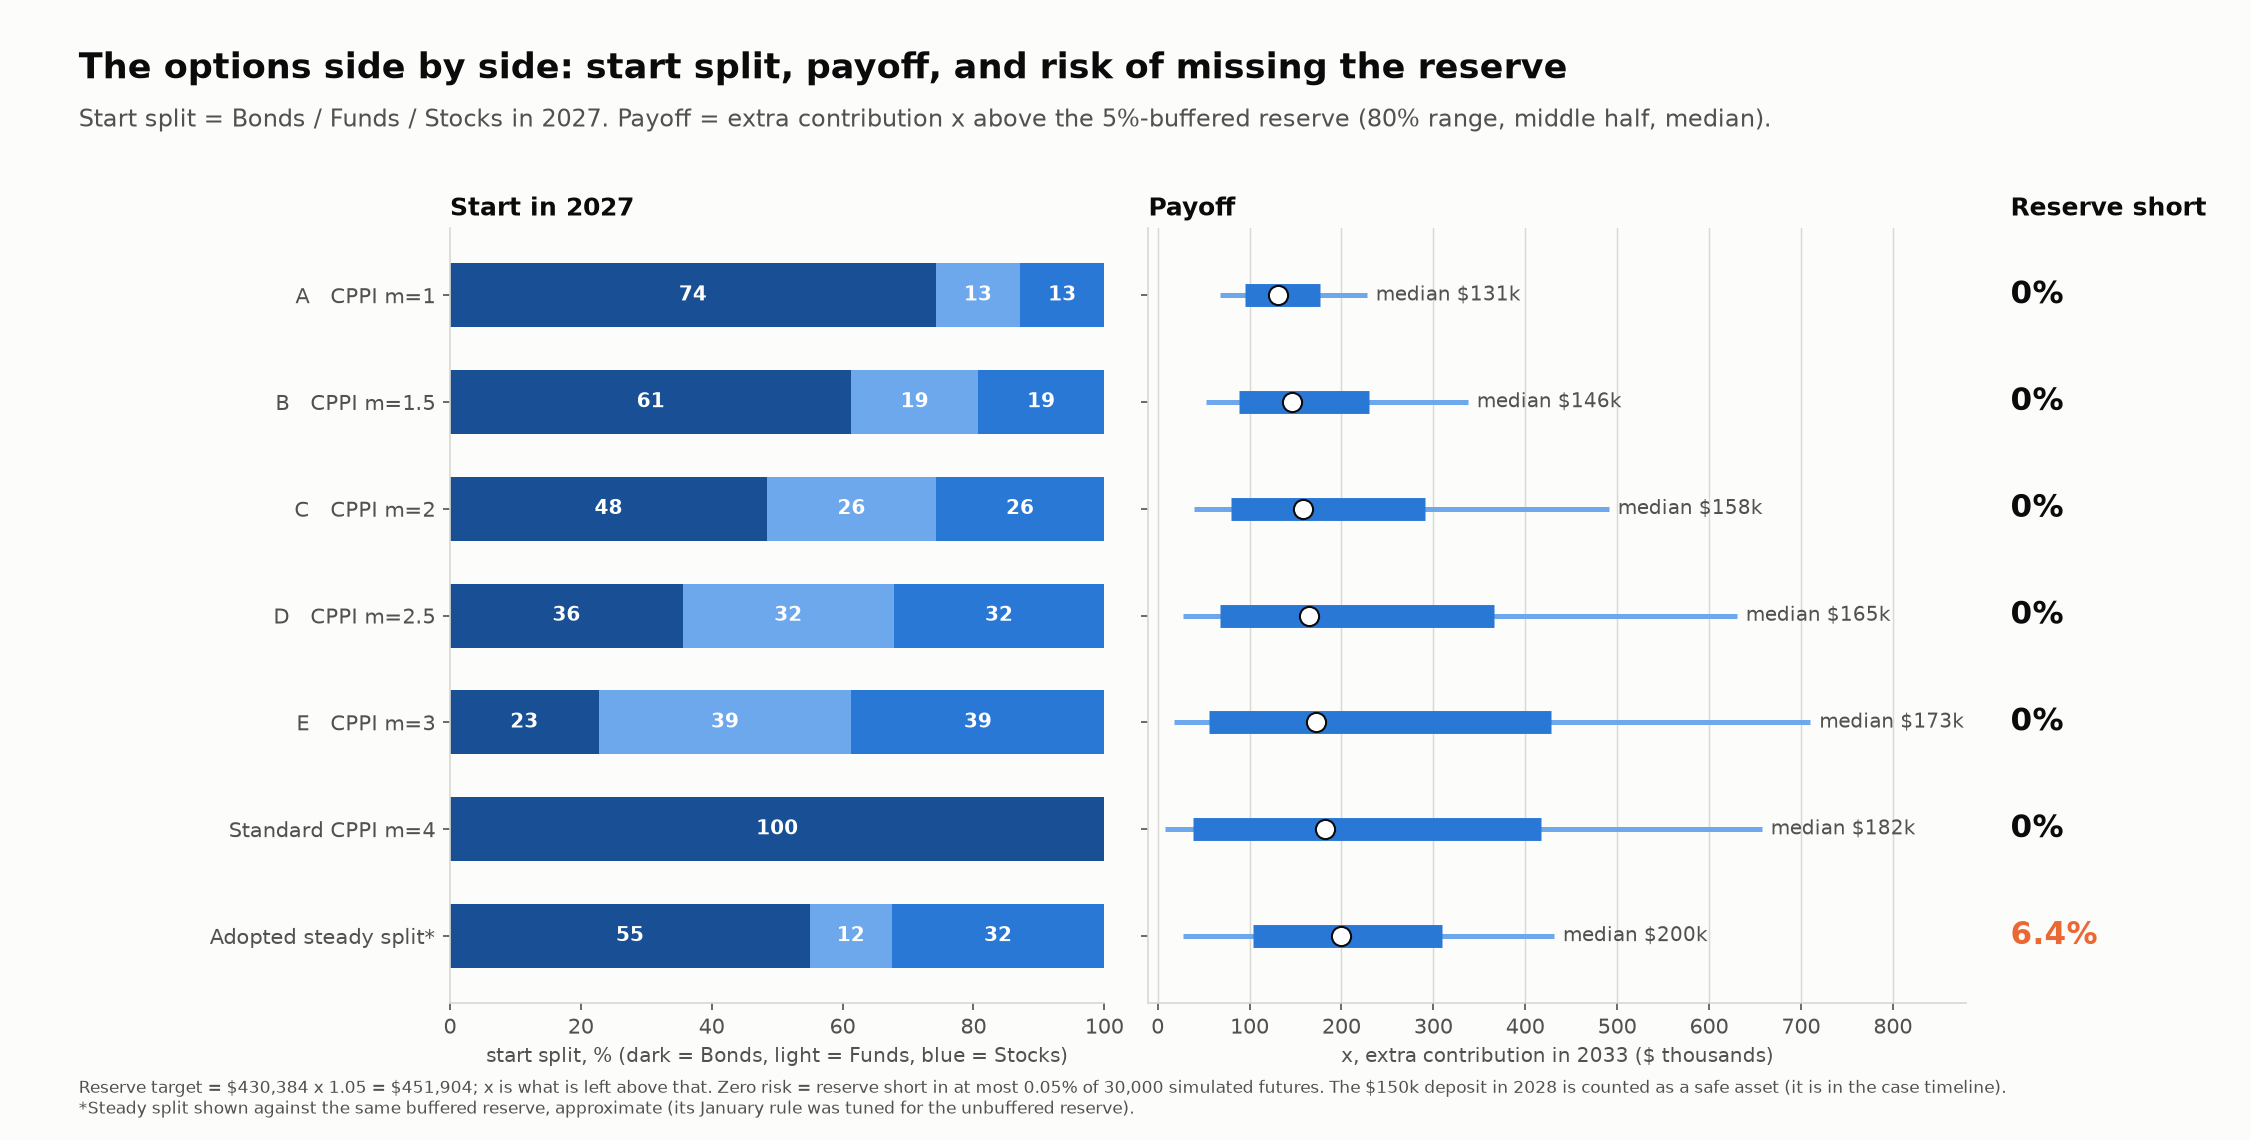
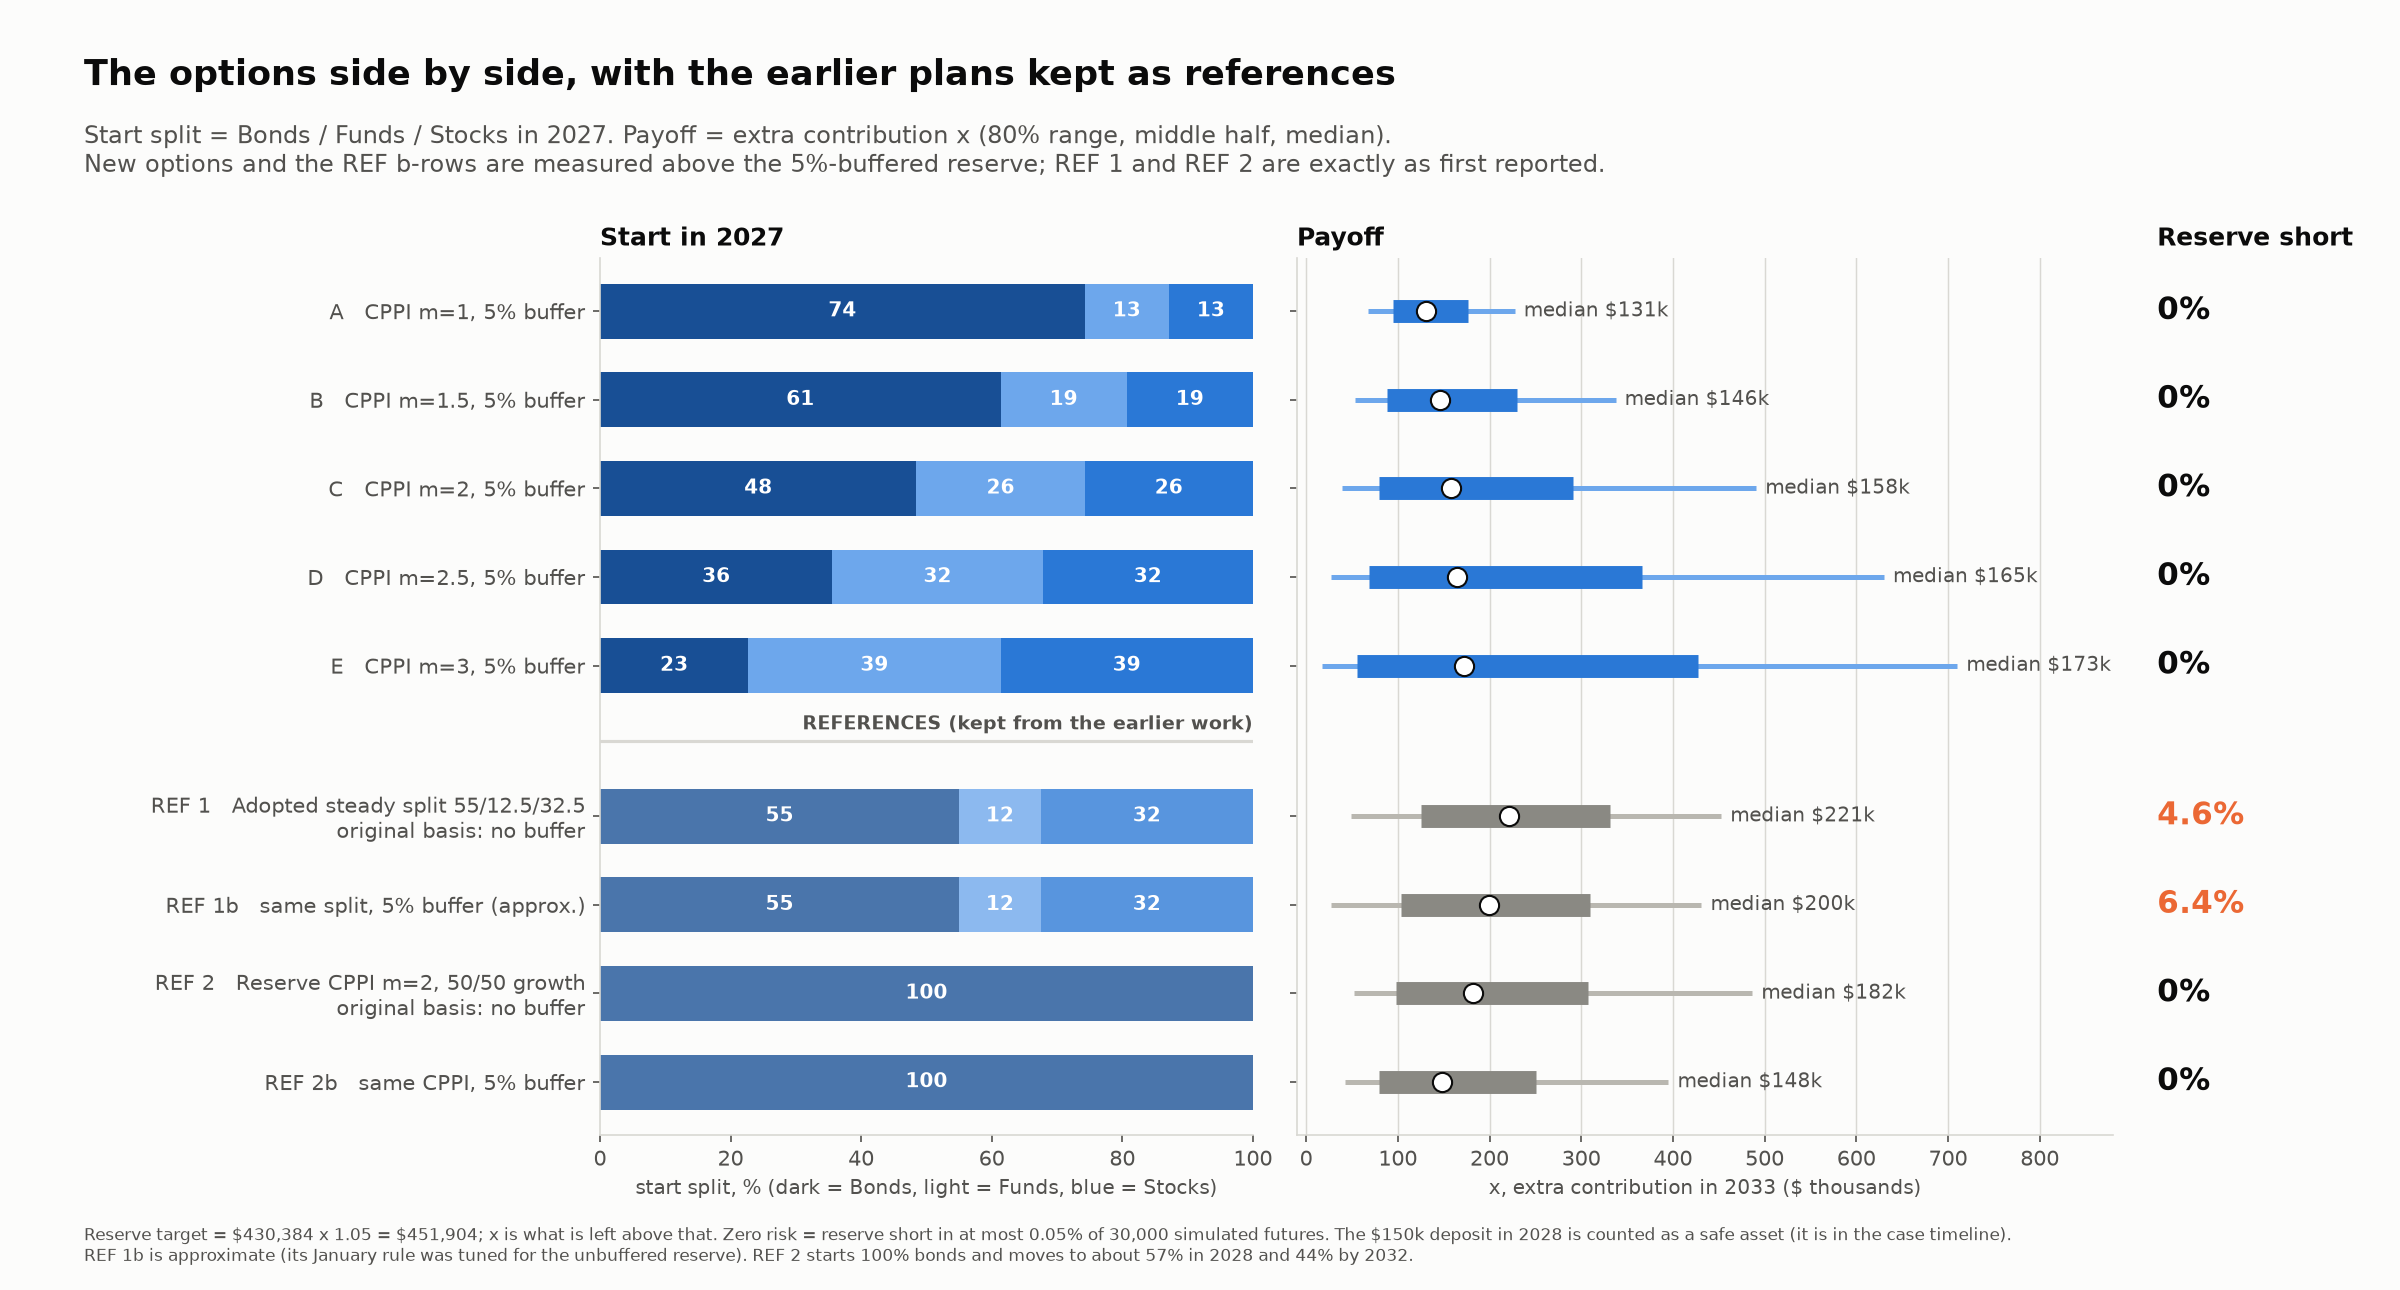
Keep earlier work as references: restore older charts to output/reference and add reference rows and panels to the CPPI option charts

diff --git a/visuals.py b/visuals.py
@@ -430,10 +430,18 @@ def cppi_data(d):
         r = c.loc[i]
         v, _, share = o.run_reserve_first(o.grow_returns(d["X"], r.stock_share_of_growth), float(r.multiplier), reserve=RES_BUF, count_future=True)
         paths[letter] = {"v": v, "bonds": 1 - share[:, ::12]}
-    ref = o.x_stats(d["v"]) if False else None
-    xs = np.maximum(d["v"] - RES_BUF, 0)
-    d["steady_ref"] = {"x_median": np.median(xs), "x_range_lo": np.percentile(xs, o.RLO), "x_range_hi": np.percentile(xs, o.RHI), "x_p25": np.percentile(xs, 25),
-                       "x_p75": np.percentile(xs, 75), "p_short": float((d["v"] < RES_BUF).mean())}
+    def stats(v, res):
+        x = np.maximum(v - res, 0)
+        return {"x_median": np.median(x), "x_range_lo": np.percentile(x, o.RLO), "x_range_hi": np.percentile(x, o.RHI), "x_p25": np.percentile(x, 25),
+                "x_p75": np.percentile(x, 75), "p_short": float((v < res).mean())}
+    d["steady_ref"] = stats(d["v"], RES_BUF)               # adopted steady split against the buffered reserve (approx.)
+    d["steady_orig"] = stats(d["v"], o.RESERVE)            # adopted steady split, original basis (no buffer)
+    # reserve-first CPPI from the earlier work: m=2, 50/50 growth, deposit not counted (starts 100% bonds)
+    g50 = o.grow_returns(d["X"], 0.5)
+    v0, _, sh0 = o.run_reserve_first(g50, 2.0)
+    d["cppi_orig"] = {**stats(v0, o.RESERVE), "bonds": 1 - sh0[:, ::12]}
+    vb, _, _ = o.run_reserve_first(g50, 2.0, reserve=RES_BUF)
+    d["cppi_orig_buf"] = stats(vb, RES_BUF)
     return c, menu, paths
 
 
@@ -452,7 +460,14 @@ def chart_cppi_frontier(d, c, menu):
     ax.scatter(std.start_bonds * 100, std.x_median / 1e3, s=60, marker="s", c=ORANGE, zorder=4, label="standard CPPI (2028 deposit not counted): all start at 100% bonds")
     ref = d["steady_ref"]
     ax.axhline(ref["x_median"] / 1e3, color=INK2, lw=1.2, ls="--")
-    ax.text(80, ref["x_median"] / 1e3 + 3, f"adopted steady split, same buffer (approx.): median {K(ref['x_median'])},\nbut {ref['p_short']:.1%} chance the reserve is short", fontsize=9.3, color=INK2, va="bottom", linespacing=1.4)
+    ax.text(60, ref["x_median"] / 1e3 - 2.5, f"dashed line: adopted steady split against the buffered reserve\n(approx.): median {K(ref['x_median'])}, reserve short {ref['p_short']:.1%}", fontsize=9, color=INK2, va="top", linespacing=1.4)
+    so, co = d["steady_orig"], d["cppi_orig"]
+    ax.scatter(SPLIT[0] * 100, so["x_median"] / 1e3, s=190, marker="D", c=INK, zorder=6)
+    ax.annotate(f"REF  adopted steady split 55/12.5/32.5, original basis (no buffer):\nmedian {K(so['x_median'])}, reserve short {so['p_short']:.1%}", (SPLIT[0] * 100, so["x_median"] / 1e3),
+                (50, so["x_median"] / 1e3 + 9), fontsize=9.2, color=INK, va="center", arrowprops=dict(arrowstyle="-", color=INK2))
+    ax.scatter(100, co["x_median"] / 1e3, s=190, marker="s", c="white", edgecolors=INK, linewidths=1.8, zorder=6)
+    ax.annotate(f"REF  reserve CPPI m=2 (earlier work), original basis:\nmedian {K(co['x_median'])}, starts at 100% bonds", (100, co["x_median"] / 1e3),
+                (93, co["x_median"] / 1e3 + 14), fontsize=9.2, color=INK, va="center", arrowprops=dict(arrowstyle="-", color=INK2))
     for letter, i in menu.items():
         r = c.loc[i]
         ax.scatter(r.start_bonds * 100, r.x_median / 1e3, s=330, marker="o", c="white", edgecolors=INK, linewidths=1.6, zorder=6)
@@ -460,7 +475,7 @@ def chart_cppi_frontier(d, c, menu):
     ax.set_xlim(104, -4)
     ax.set_xlabel("Bonds % in 2027 (the starting split)", fontsize=11, color=INK2)
     ax.set_ylabel("median extra contribution x ($ thousands)", fontsize=11, color=INK2)
-    ax.legend(loc="upper left", frameon=False, fontsize=9.5, labelcolor=INK2)
+    ax.legend(loc="lower right", frameon=False, fontsize=9.5, labelcolor=INK2)
     setup(ax, "both")
     cb = fig.colorbar(sc, ax=ax, fraction=0.035, pad=0.02)
     cb.set_label("CPPI multiplier", fontsize=10, color=INK2)
@@ -529,53 +544,50 @@ def chart_cppi_heatmaps(d, c, menu):
 
 
 def chart_cppi_menu(d, c, menu, paths):
-    names, starts, xs, shorts, subs = [], [], [], [], []
+    rows = []                                              # (label, start split, x quantiles, P(short), group)
     for letter, i in menu.items():
         r = c.loc[i]
-        names.append(f"{letter}   CPPI m={r.multiplier:g}")
-        starts.append((r.start_bonds, r.start_funds, r.start_stocks))
-        xs.append((r.x_range_lo, r.x_p25, r.x_median, r.x_p75, r.x_range_hi))
-        shorts.append(r.p_shortfall)
-        subs.append(f"moves ~{r.chg_after * 100:.0f} pts/yr after 2028")
-    std = c[(c.buffer == BUF) & ~c.count_deposit & c.zero_risk & (c.stock_share_of_growth <= config.MAX_STOCK_SHARE_OF_GROWTH + 1e-9)]
-    if len(std):
-        r = c.loc[std.x_median.idxmax()]
-        names.append(f"Standard CPPI m={r.multiplier:g}")
-        starts.append((1.0, 0.0, 0.0))
-        xs.append((r.x_range_lo, r.x_p25, r.x_median, r.x_p75, r.x_range_hi))
-        shorts.append(r.p_shortfall)
-        subs.append("starts 100% bonds")
-    ref = d["steady_ref"]
-    names.append("Adopted steady split*")
-    starts.append(tuple(SPLIT))
-    xs.append((ref["x_range_lo"], ref["x_p25"], ref["x_median"], ref["x_p75"], ref["x_range_hi"]))
-    shorts.append(ref["p_short"])
-    subs.append("nudges 5 pts at most; has risk")
-    n = len(names)
-    fig = page("The options side by side: start split, payoff, and risk of missing the reserve",
-               f"Start split = Bonds / Funds / Stocks in 2027. Payoff = extra contribution x above the {BUF:.0%}-buffered reserve ({o.RC:.0%} range, middle half, median).",
-               note=NOTE_CPPI + "\n*Steady split shown against the same buffered reserve, approximate (its January rule was tuned for the unbuffered reserve).", size=(15, 7.6))
-    gs = fig.add_gridspec(1, 3, left=0.2, right=0.975, top=0.8, bottom=0.12, wspace=0.08, width_ratios=[1, 1.25, 0.28])
-    ypos = np.arange(n)[::-1]
+        rows.append((f"{letter}   CPPI m={r.multiplier:g}, 5% buffer", (r.start_bonds, r.start_funds, r.start_stocks),
+                     (r.x_range_lo, r.x_p25, r.x_median, r.x_p75, r.x_range_hi), r.p_shortfall, "new"))
+    def q(st):
+        return (st["x_range_lo"], st["x_p25"], st["x_median"], st["x_p75"], st["x_range_hi"])
+    rows.append(("REF 1   Adopted steady split 55/12.5/32.5\n        original basis: no buffer", tuple(SPLIT), q(d["steady_orig"]), d["steady_orig"]["p_short"], "ref"))
+    rows.append(("REF 1b   same split, 5% buffer (approx.)", tuple(SPLIT), q(d["steady_ref"]), d["steady_ref"]["p_short"], "ref"))
+    rows.append(("REF 2   Reserve CPPI m=2, 50/50 growth\n        original basis: no buffer", (1.0, 0.0, 0.0), q(d["cppi_orig"]), d["cppi_orig"]["p_short"], "ref"))
+    rows.append(("REF 2b   same CPPI, 5% buffer", (1.0, 0.0, 0.0), q(d["cppi_orig_buf"]), d["cppi_orig_buf"]["p_short"], "ref"))
+    n_new = sum(1 for r in rows if r[4] == "new")
+    ypos, y = [], len(rows) + 1.0
+    for k, r in enumerate(rows):
+        y -= 1
+        if k == n_new:
+            y -= 0.7                                       # gap before the references
+        ypos.append(y)
+    fig = page("The options side by side, with the earlier plans kept as references",
+               f"Start split = Bonds / Funds / Stocks in 2027. Payoff = extra contribution x ({o.RC:.0%} range, middle half, median).\nNew options and the REF b-rows are measured above the {BUF:.0%}-buffered reserve; REF 1 and REF 2 are exactly as first reported.",
+               note=NOTE_CPPI + "\nREF 1b is approximate (its January rule was tuned for the unbuffered reserve). REF 2 starts 100% bonds and moves to about 57% in 2028 and 44% by 2032.", size=(16, 8.6))
+    gs = fig.add_gridspec(1, 3, left=0.25, right=0.975, top=0.8, bottom=0.12, wspace=0.08, width_ratios=[1, 1.25, 0.28])
     a = fig.add_subplot(gs[0])
-    for yi, st in zip(ypos, starts):
+    for yi, r in zip(ypos, rows):
         left = 0
-        for val, col in zip(st, (DARK, MID, BLUE)):
-            a.barh(yi, val * 100, left=left, color=col, height=0.6)
+        for val, col in zip(r[1], (DARK, MID, BLUE)):
+            a.barh(yi, val * 100, left=left, color=col, height=0.62, alpha=1 if r[4] == "new" else 0.78)
             if val >= 0.07:
                 a.text(left + val * 50, yi, f"{val * 100:.0f}", ha="center", va="center", fontsize=9.5, color="white", fontweight="bold")
             left += val * 100
-    a.set_yticks(ypos, names, fontsize=10.5, color=INK)
-    for yi, sb in zip(ypos, subs):
-        a.text(-2, yi - 0.4, sb, transform=a.transData, ha="right", va="center", fontsize=8.2, color=INK2) if False else None
+    a.set_yticks(ypos, [r[0] for r in rows], fontsize=9.8, color=INK)
+    a.axhline((ypos[n_new - 1] + ypos[n_new]) / 2, color=GRID, lw=1.5)
+    a.text(100, (ypos[n_new - 1] + ypos[n_new]) / 2 + 0.08, "REFERENCES (kept from the earlier work)", ha="right", va="bottom", fontsize=9, color=INK2, fontweight="bold")
+    a.set_ylim(min(ypos) - 0.6, max(ypos) + 0.6)
     a.set_xlim(0, 100)
     a.set_xlabel("start split, % (dark = Bonds, light = Funds, blue = Stocks)", fontsize=9.5, color=INK2)
     a.set_title("Start in 2027", fontsize=12, fontweight="bold", color=INK, loc="left")
     setup(a, None)
     b = fig.add_subplot(gs[1], sharey=a)
-    for yi, (lo, q1, md, q3, hi) in zip(ypos, xs):
-        b.hlines(yi, lo / 1e3, hi / 1e3, color=MID, lw=2.4)
-        b.hlines(yi, q1 / 1e3, q3 / 1e3, color=BLUE, lw=11)
+    for yi, r in zip(ypos, rows):
+        lo, q1, md, q3, hi = r[2]
+        col = (MID, BLUE) if r[4] == "new" else ("#b9b7b0", "#8a8983")
+        b.hlines(yi, lo / 1e3, hi / 1e3, color=col[0], lw=2.4)
+        b.hlines(yi, q1 / 1e3, q3 / 1e3, color=col[1], lw=11)
         b.scatter(md / 1e3, yi, s=85, color="white", edgecolors=INK, zorder=4)
         b.text(hi / 1e3 + 10, yi, f"median {K(md)}", fontsize=9.6, color=INK2, va="center")
     plt.setp(b.get_yticklabels(), visible=False)
@@ -586,31 +598,36 @@ def chart_cppi_menu(d, c, menu, paths):
     r_ = fig.add_subplot(gs[2], sharey=a)
     r_.axis("off")
     r_.set_title("Reserve short", fontsize=12, fontweight="bold", color=INK, loc="left")
-    for yi, sh in zip(ypos, shorts):
-        bad = sh > config.CPPI_ZERO_RISK
-        r_.text(0, yi, f"{sh:.1%}" if bad else "0%", fontsize=15, fontweight="bold", color=ORANGE if bad else INK, va="center")
+    for yi, r in zip(ypos, rows):
+        bad = r[3] > config.CPPI_ZERO_RISK
+        r_.text(0, yi, f"{r[3]:.1%}" if bad else "0%", fontsize=15, fontweight="bold", color=ORANGE if bad else INK, va="center")
     save(fig, "10_cppi_menu.png")
 
 
 def chart_cppi_glide(d, c, menu, paths):
     yrs = o.FIRST_YEAR + np.arange(o.MONTHS // 12)
-    n = len(menu)
-    fig = page("How the split moves over time for each option (Bonds weight at the start of each year)",
-               "Line = median future, band = middle half of futures. The jump in 2028 is the $150k deposit arriving as safe money.", size=(18, 6.8), note=NOTE_CPPI)
-    gs = fig.add_gridspec(1, n, left=0.05, right=0.985, top=0.78, bottom=0.16, wspace=0.12)
-    for k, (letter, i) in enumerate(menu.items()):
-        r = c.loc[i]
+    panels = [("REF 2  Reserve CPPI m=2\n(earlier work)", d["cppi_orig"]["bonds"], True),
+              ("REF 1  Adopted steady split\n55 / 12.5 / 32.5", d["bonds"].T, True)]
+    for letter, i in menu.items():
+        panels.append((f"{letter}   CPPI m={c.loc[i].multiplier:g}\n5% buffer", paths[letter]["bonds"], False))
+    n = len(panels)
+    fig = page("How the split moves over time: the earlier plans (gray) next to the new options",
+               "Bonds weight at the start of each year. Line = median future, band = middle half (light = 5th to 95th percentile). The 2028 jump is the $150k deposit arriving as safe money.",
+               size=(22, 6.8), note=NOTE_CPPI)
+    gs = fig.add_gridspec(1, n, left=0.04, right=0.99, top=0.73, bottom=0.16, wspace=0.12)
+    for k, (title, bonds, ref) in enumerate(panels):
         ax = fig.add_subplot(gs[k], sharey=None if k == 0 else fig.axes[0])
-        bp = paths[letter]["bonds"] * 100
+        bp = bonds * 100
         q = np.percentile(bp, [5, 25, 50, 75, 95], axis=0)
         yx = np.append(yrs, yrs[-1] + 1)
         qx = np.concatenate([q, q[:, -1:]], axis=1)
-        ax.fill_between(yx, qx[0], qx[4], step="post", color=LIGHT, lw=0)
-        ax.fill_between(yx, qx[1], qx[3], step="post", color=MID, lw=0)
-        ax.step(yx, qx[2], where="post", color=DARK, lw=2.4)
-        ax.text(yrs[0] + 0.05, q[2][0] + 3, f"{q[2][0]:.0f}%", fontsize=10, color=DARK, fontweight="bold")
-        ax.text(yrs[-1] + 0.05, q[2][-1] + 3, f"{q[2][-1]:.0f}%", fontsize=10, color=DARK, fontweight="bold")
-        ax.set_title(f"{letter}   CPPI m={r.multiplier:g}", fontsize=11.5, fontweight="bold", color=INK, loc="left")
+        cl, cm, cd = ("#e4e2dc", "#bdbbb4", "#52514e") if ref else (LIGHT, MID, DARK)
+        ax.fill_between(yx, qx[0], qx[4], step="post", color=cl, lw=0)
+        ax.fill_between(yx, qx[1], qx[3], step="post", color=cm, lw=0)
+        ax.step(yx, qx[2], where="post", color=cd, lw=2.4)
+        ax.text(yrs[0] + 0.05, q[2][0] + (3 if q[2][0] < 90 else -9), f"{q[2][0]:.0f}%", fontsize=10, color=cd, fontweight="bold")
+        ax.text(yrs[-1] + 0.05, q[2][-1] + 3, f"{q[2][-1]:.0f}%", fontsize=10, color=cd, fontweight="bold")
+        ax.set_title(title, fontsize=10, fontweight="bold", color=INK, loc="left")
         ax.set_ylim(0, 100)
         ax.set_xlim(yx[0], yx[-1])
         ax.set_xticks(yrs[::2], [str(y) for y in yrs[::2]], fontsize=9, color=INK2)

diff --git a/README.md b/README.md
@@ -52,7 +52,7 @@ python3 buckets.py                           # risk/reward map of every split
 python3 dcf.py                               # DCF + margin of safety for stock picks
 .venv/bin/python optimize.py                 # backtest + Monte Carlo of every bonds/funds/stocks split and the range of x
 ```
-`optimize.py` also writes `cppi_options_grid.csv` (zero-risk CPPI with a 5% reserve buffer and the 2028 deposit counted, so it need not start at 100% bonds). `visuals.py` redraws the team charts for the adopted plan (`config.ADOPTED_SPLIT`) into `output/team/`.
+`optimize.py` also writes `cppi_options_grid.csv` (zero-risk CPPI with a 5% reserve buffer and the 2028 deposit counted, so it need not start at 100% bonds). `output/reference/` keeps the earlier technical charts (static-split heatmaps, the reserve-first CPPI heatmap and projection, the steady-split heatmap and projection) as snapshots. `visuals.py` redraws the team charts for the adopted plan (`config.ADOPTED_SPLIT`) into `output/team/`.
 `optimize.py` (settings: the ALLOCATION OPTIMIZER block in `config.py`) uses the stock strategy's monthly returns in `output/stock_sleeve.csv`
 (`python -m quant.run --sleeve-only` refreshes it) and writes `output/allocation/`: `grid.csv` (every split), `scenarios.csv`,
 `x_projection.csv` (95% interval, IQR, median, mean of x), `cppi_grid.csv`, `steady_grid.csv`. The charts are drawn by `visuals.py`.
